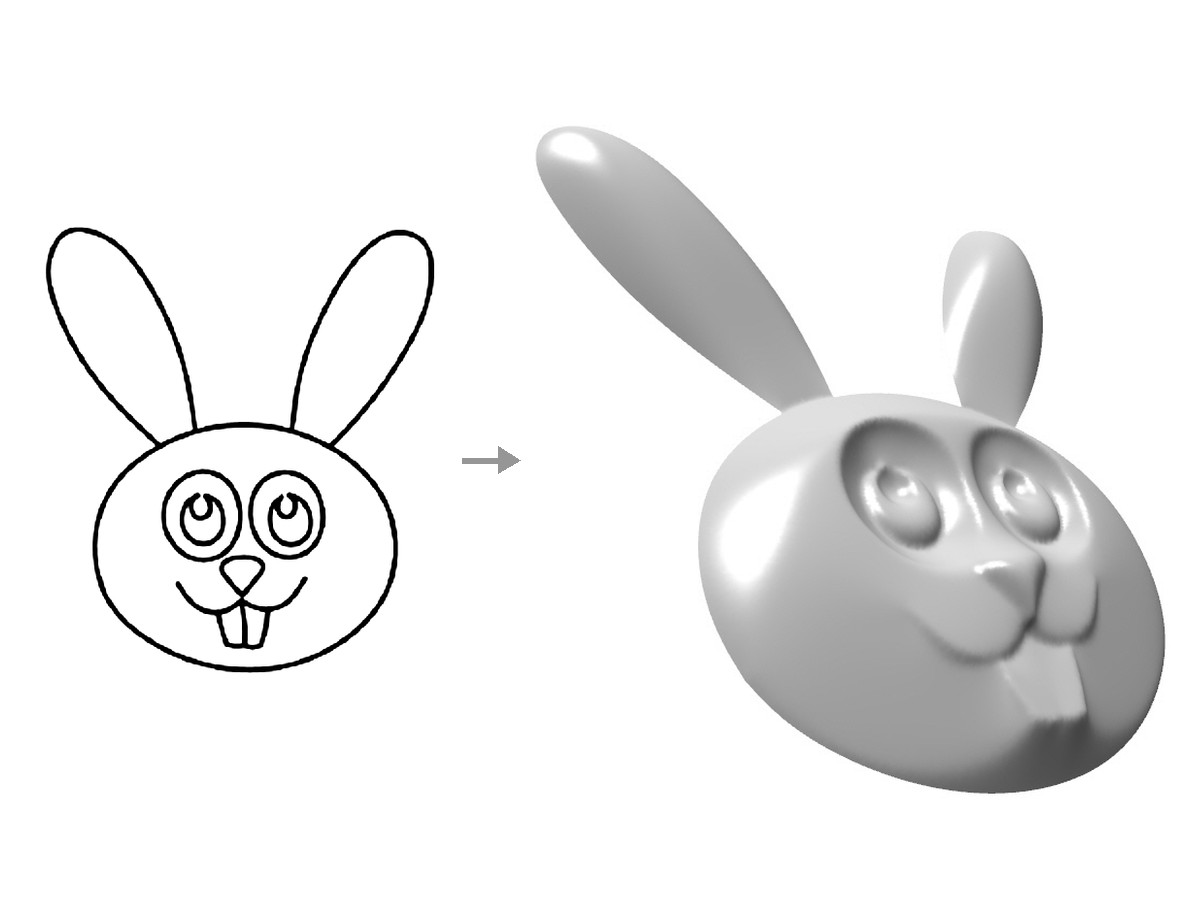
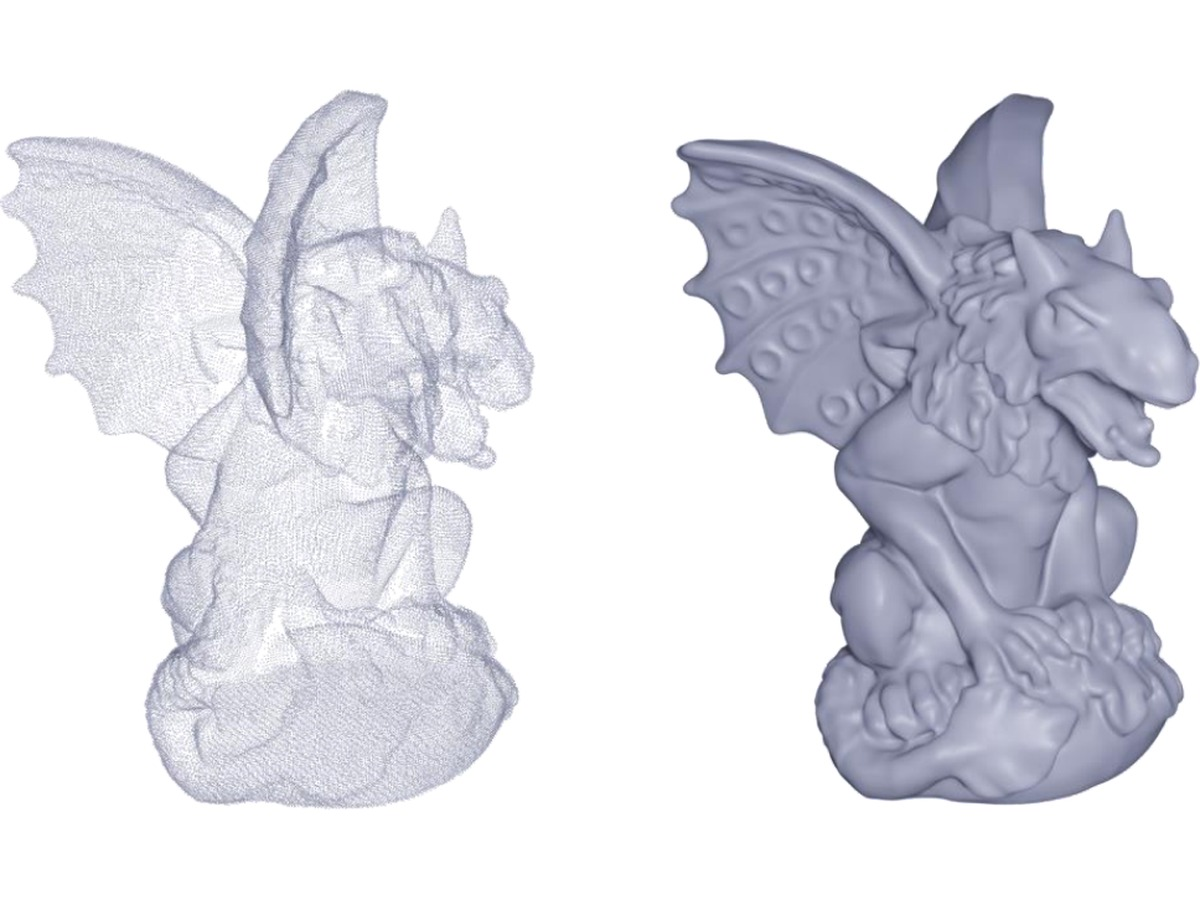
Research: Gargoyle point cloud and p-Poisson (PINC) surface as the surface-reconstruction figure
From Park, Lee, Hahn, Kang, NeurIPS 2023, Fig. 3.

Claude-Session: https://claude.ai/code/session_01MKDFXBc8dggSCkPzCDDRnJ

diff --git a/docs/index.html b/docs/index.html
@@ -38,7 +38,7 @@
 <details class="cat" id="tda"><summary><span class="hero"><img src="assets/hero/tda.jpg" width="720" height="540" alt="" loading="lazy" decoding="async"><span class=cap>GC×GC chromatogram of a wine and its Ball Mapper graphs at three scales.</span></span><h3>Geometry-informed topological data analysis</h3><span class="cd">Ball Mapper, persistent homology and signed distance functions applied to cell positions in tumor tissue and to mass-spectrometry data of wines.</span><span class="cm"><span class="n">2 papers</span><span class="open">Show papers</span></span></summary><ul class="plist"><li><img class="pth" src="assets/fig/Park2026_SpatialAnalysisMalignantImmuneCellInteractio.jpg" width="360" height="151" alt="Topological malignant region of a cell point cloud and signed distance to its boundary." loading="lazy" decoding="async"><div><p class="pt"><a href="https://doi.org/10.1038/s41540-026-00763-7" target="_blank" rel="noopener">Spatial analysis of malignant-immune cell interactions in the tumor microenvironment using topological data analysis</a></p><p class="pv">2026 · <i>npj Systems Biology and Applications</i></p><p class="po">Defines a topological malignant region by persistent homology, measures immune-cell infiltration by signed distance and local density, and relates these features to patient survival in CNS lymphoma.</p></div></li><li><img class="pth" src="assets/fig/Koljancic2025_UntargetedChemicalProfilingTwoDimensiona.jpg" width="360" height="362" alt="Ball Mapper graph of wine mass spectral vectors, nodes colored by Austrian sample share." loading="lazy" decoding="async"><div><p class="pt"><a href="https://doi.org/10.1021/acs.analchem.5c05342" target="_blank" rel="noopener">Untargeted Chemical Profiling of Two-Dimensional Gas Chromatography Coupled with High-Resolution Mass Spectrometry Data for Botrytized Wines via Topological Data Analysis</a></p><p class="pv">2025 · <i>Analytical Chemistry</i></p><p class="po">Uses Ball Mapper for untargeted analysis of GC×GC–HR-TOF-MS data from 34 botrytized wines, extracting sample-specific mass spectral features whose clusters align with region, producer and botrytization style.</p></div></li></ul></details>
 <details class="cat" id="neural"><summary><span class="hero"><img src="assets/hero/neural.jpg" width="720" height="540" alt="" loading="lazy" decoding="async"><span class=cap>Cut-open level sets of 3‑D signed distance functions computed by a neural network (ReSDF).</span></span><h3>Neural-network solvers for PDEs</h3><span class="cd">Implicit neural representations that solve the eikonal and p‑Poisson equations: redistancing of level-set functions, viscosity solutions in domains with obstacles, and surface reconstruction from point clouds.</span><span class="cm"><span class="n">3 papers</span><span class="open">Show papers</span></span></summary><ul class="plist"><li><img class="pth" src="assets/fig/Han2026_AStochasticVanishingViscosityApproachEik.jpg" width="261" height="261" alt="Predicted eikonal solution from a circular source detouring around a rectangular obstacle." loading="lazy" decoding="async"><div><p class="pt"><a href="https://doi.org/10.1016/j.jcp.2026.115154" target="_blank" rel="noopener">A stochastic vanishing viscosity approach for eikonal equations</a></p><p class="pv">2026 · <i>Journal of Computational Physics</i></p><p class="po">Solves the eikonal equation with a meshless neural network trained on a stochastic (Feynman-Kac) form of the vanishing viscosity limit, including domains with internal obstacles.</p></div></li><li><img class="pth" src="assets/fig/Park2024_ReSDF.jpg" width="360" height="152" alt="Star-shaped interface: level set function before and signed distance function after redistancing." loading="lazy" decoding="async"><div><p class="pt"><a href="https://doi.org/10.1016/j.jcp.2024.112803" target="_blank" rel="noopener">ReSDF: Redistancing implicit surfaces using neural networks</a></p><p class="pv">2024 · <i>Journal of Computational Physics</i></p><p class="po">Recovers the signed distance function from a given level-set function with a neural network that outputs the distance and its unit gradient, trained with geometry-based losses.</p></div></li><li><img class="pth" src="assets/fig/Park2023_PPoissonSurfaceReconstructionCurlFreeFlow.jpg" width="360" height="288" alt="Gargoyle surface reconstructed from a point cloud with the curl-free constraint." loading="lazy" decoding="async"><div><p class="pt"><a href="https://proceedings.neurips.cc/paper_files/paper/2023/hash/bd18189308a4c45c7d71ca83acf3deaa-Abstract-Conference.html" target="_blank" rel="noopener">p‑Poisson surface reconstruction in curl-free flow from point clouds</a></p><p class="pv">2023 · <i>Advances in Neural Information Processing Systems (NeurIPS 2023)</i></p><p class="po">Reconstructs a signed distance function and surface from a raw, unoriented point cloud with an implicit neural representation constrained by the p‑Poisson equation and a curl-free condition.</p></div></li></ul></details>
 <details class="cat" id="image"><summary><span class="hero"><img src="assets/hero/image.jpg" width="720" height="540" alt="" loading="lazy" decoding="async"><span class=cap>Euler&#x27;s elastica: inpainting of the red regions (top) and removal of salt-and-pepper noise (bottom).</span></span><h3>Variational and PDE-based image processing</h3><span class="cd">Variational models and PDEs for image denoising, inpainting, segmentation and blending: TV-Stokes models, augmented Lagrangian methods for total variation and Euler&#x27;s elastica, nonlinear structure tensors and level-set active contours.</span><span class="cm"><span class="n">13 papers</span><span class="open">Show papers</span></span></summary><ul class="plist"><li><img class="pth" src="assets/fig/Hintermuller2014_FunctionalAnalyticNumericalIssuesSplitti.jpg" width="360" height="177" alt="Noisy image and its total-variation denoising result." loading="lazy" decoding="async"><div><p class="pt"><a href="https://doi.org/10.1088/0266-5611/30/5/055014" target="_blank" rel="noopener">Functional-analytic and numerical issues in splitting methods for total variation-based image reconstruction</a></p><p class="pv">2014 · <i>Inverse Problems</i></p><p class="po">Analyzes variable-splitting and augmented Lagrangian methods for total-variation image denoising in function space, in primal and Fenchel pre-dual form, and proposes a staggered-grid discretization for the pre-dual.</p></div></li><li><img class="pth" src="assets/fig/Park2014_IMAGESEGMENTATIONSTATISTICALVARIATIONALF.jpg" width="360" height="294" alt="Camera photograph with the segmentation boundary drawn in red." loading="lazy" decoding="async"><div><p class="pt"><a href="https://doi.org/10.12941/jksiam.2014.18.129" target="_blank" rel="noopener">Image segmentation based on the statistical variational formulation using the local region information</a></p><p class="pv">2014 · <i>Journal of the Korean Society for Industrial and Applied Mathematics</i></p><p class="po">Segments images modeled as a mixture of two Gaussian intensity distributions by adding a local region energy that reclassifies pixels in ambiguous regions using locally estimated Gaussian parameters.</p></div></li><li><img class="pth" src="assets/fig/Duan2013_FastAugmentedLagrangianMethodEulersElastica.jpg" width="360" height="176" alt="Noisy liver CT slice and its Euler&#x27;s elastica denoised result." loading="lazy" decoding="async"><div><p class="pt"><a href="https://doi.org/10.4208/nmtma.2013.mssvm03" target="_blank" rel="noopener">A Fast Augmented Lagrangian Method for Euler&#x27;s Elastica Models</a></p><p class="pv">2013 · <i>Numerical Mathematics: Theory, Methods and Applications</i></p><p class="po">Minimizes Euler&#x27;s elastica energy with an FFT-free augmented Lagrangian method that adds a curvature variable h = div n, applied to image denoising (including CT), inpainting and zooming.</p></div></li><li><img class="pth" src="assets/fig/Hahn2012_AugmentedLagrangianMethodGeneralizedTVSt.jpg" width="360" height="194" alt="Normal vectors on sketch curves and the height surface reconstructed from them." loading="lazy" decoding="async"><div><p class="pt"><a href="https://doi.org/10.1007/s10915-011-9482-6" target="_blank" rel="noopener">Augmented Lagrangian Method for Generalized TV-Stokes Model</a></p><p class="pv">2012 · <i>Journal of Scientific Computing</i></p><p class="po">Generalizes the two-step TV-Stokes model (regularize the tangential field, then fit the data) with an augmented Lagrangian solver, applied to inpainting, denoising and surface reconstruction from sparse gradients.</p></div></li><li><img class="pth" src="assets/fig/Hahn2012_FastAlgorithmsPElasticaEnergyApplication.jpg" width="360" height="318" alt="Red masked regions (top) and p-elastica inpainting results (bottom) for two images." loading="lazy" decoding="async"><div><p class="pt"><a href="https://doi.org/10.1007/978-3-642-24785-9_15" target="_blank" rel="noopener">Fast Algorithms for p‑elastica Energy with the Application to Image Inpainting and Curve Reconstruction</a></p><p class="pv">2012 · <i>Scale Space and Variational Methods in Computer Vision (SSVM 2011), Lecture Notes in Computer Science</i></p><p class="po">Minimizes the curvature-based p‑elastica energy with two augmented Lagrangian algorithms that simplify the normal-field subproblem, applied to image inpainting and curve reconstruction from noisy unorganized point sets.</p></div></li><li><img class="pth" src="assets/fig/Duan2012_AFastAugmentedLagrangianMethodEulersElas.jpg" width="360" height="177" alt="Noisy synthetic image and its Euler&#x27;s elastica denoised result." loading="lazy" decoding="async"><div><p class="pt"><a href="https://doi.org/10.1007/978-3-642-24785-9_13" target="_blank" rel="noopener">A Fast Augmented Lagrangian Method for Euler&#x27;s Elastica Model</a></p><p class="pv">2012 · <i>Scale Space and Variational Methods in Computer Vision (SSVM 2011), Lecture Notes in Computer Science</i></p><p class="po">Minimizes Euler&#x27;s elastica energy for image denoising with an augmented Lagrangian method whose curvature variable h = div n makes each subproblem closed-form or linear, without FFT.</p></div></li><li><img class="pth" src="assets/fig/Hahn2011_OrientationMatchingMinimizationImageDeno.jpg" width="360" height="176" alt="Image with red inpainting region and the orientation-matching reconstruction." loading="lazy" decoding="async"><div><p class="pt"><a href="https://doi.org/10.1007/s11263-010-0371-5" target="_blank" rel="noopener">Orientation-Matching Minimization for Image Denoising and Inpainting</a></p><p class="pv">2011 · <i>International Journal of Computer Vision</i></p><p class="po">Denoises and inpaints images in two steps: the TV-Stokes equation regularizes the tangent vector field, then an orientation-matching minimization aligns the image gradient with the regularized normal field.</p></div></li><li><img class="pth" src="assets/fig/Tai2011_AFastAlgorithmEulerSElasticaModelAugment.jpg" width="360" height="175" alt="Image with salt-and-pepper noise and the result of elastica-based denoising." loading="lazy" decoding="async"><div><p class="pt"><a href="https://doi.org/10.1137/100803730" target="_blank" rel="noopener">A Fast Algorithm for Euler&#x27;s Elastica Model Using Augmented Lagrangian Method</a></p><p class="pv">2011 · <i>SIAM Journal on Imaging Sciences</i></p><p class="po">Minimizes Euler&#x27;s elastica energy with an augmented Lagrangian method whose subproblems are solved in closed form or by FFT, applied to image denoising, inpainting and zooming.</p></div></li><li><img class="pth" src="assets/fig/Hahn2010_GeometricAttractionDrivenFlowImageSegmen.jpg" width="360" height="182" alt="Four-color labels of image regions and final segmentation contours on a cube image." loading="lazy" decoding="async"><div><p class="pt"><a href="https://doi.org/10.1016/j.jvcir.2009.10.005" target="_blank" rel="noopener">Geometric attraction-driven flow for image segmentation and boundary detection</a></p><p class="pv">2010 · <i>Journal of Visual Communication and Image Representation</i></p><p class="po">Segments images with weak edges, holes and multiple junctions by level-set active contours that combine a geometric attraction-driven flow, a binary edge function and a binary balloon force.</p></div></li><li><img class="pth" src="assets/fig/Hahn2009_ANonlinearStructureTensorDiffusivityMatr.jpg" width="360" height="172" alt="Minimum-eigenvalue map and surface of the regularized tensor, with peaks at four corners." loading="lazy" decoding="async"><div><p class="pt"><a href="https://doi.org/10.1007/s10851-009-0138-1" target="_blank" rel="noopener">A Nonlinear Structure Tensor with the Diffusivity Matrix Composed of the Image Gradient</a></p><p class="pv">2009 · <i>Journal of Mathematical Imaging and Vision</i></p><p class="po">Regularizes the structure tensor of an image by a nonlinear PDE whose diffusivity matrix is built from the image gradient, applied to denoising, enhancement and corner detection.</p></div></li><li><img class="pth" src="assets/fig/Tai2009_ImageDenoisingTVStokesEquationOrientationMat.jpg" width="360" height="176" alt="Noisy zebra image and its denoised result from the orientation-matching method." loading="lazy" decoding="async"><div><p class="pt"><a href="https://doi.org/10.1007/978-3-642-02256-2_41" target="_blank" rel="noopener">Image Denoising Using TV-Stokes Equation with an Orientation-Matching Minimization</a></p><p class="pv">2009 · <i>Scale Space and Variational Methods in Computer Vision (SSVM 2009), Lecture Notes in Computer Science</i></p><p class="po">Denoises images in two steps: the TV-Stokes equation regularizes the tangent vector field, then an orientation-matching minimization reconstructs an image with sharp edges and smooth regions.</p></div></li><li><img class="pth" src="assets/fig/Lee2007_AVariationalApproachBlendingWarpingNonOv.jpg" width="360" height="122" alt="Blending sequence from a disk to a non-overlapping diamond: start, intermediate, end." loading="lazy" decoding="async"><div><p class="pt"><a href="https://doi.org/10.1016/j.cviu.2006.09.001" target="_blank" rel="noopener">A variational approach to blending based on warping for non-overlapped images</a></p><p class="pv">2007 · <i>Computer Vision and Image Understanding</i></p><p class="po">Blends source and target images, including non-overlapping ones, by a variational model whose two deformation fields warp both shapes toward a common intermediate shape.</p></div></li><li><img class="pth" src="assets/fig/SukhoLee2006_ConductivityImageReconstructionDefective.jpg" width="360" height="182" alt="Phantom conductivity images reconstructed without and with recovered Bz data." loading="lazy" decoding="async"><div><p class="pt"><a href="https://doi.org/10.1109/TMI.2005.862150" target="_blank" rel="noopener">Conductivity Image Reconstruction From Defective Data in MREIT: Numerical Simulation and Animal Experiment</a></p><p class="pv">2006 · <i>IEEE Transactions on Medical Imaging</i></p><p class="po">Recovers the magnetic flux density Bz in low-MR-signal regions for MREIT conductivity imaging by level-set segmentation and a Dirichlet Laplace problem, tested numerically and on a piglet.</p></div></li></ul></details>
-<details class="cat" id="surface"><summary><span class="hero"><img src="assets/hero/surface.jpg" width="720" height="540" alt="" loading="lazy" decoding="async"><span class=cap>A line drawing and the 3‑D surface reconstructed from it.</span></span><h3>Surface reconstruction</h3><span class="cd">Reconstruction of surfaces and curves from sketch strokes, sparse gradients and noisy point clouds, and spherical inflation of the cerebral cortex.</span><span class="cm"><span class="n">4 papers</span><span class="open">Show papers</span></span></summary><ul class="plist"><li><img class="pth" src="assets/fig/Park2023_PPoissonSurfaceReconstructionCurlFreeFlow.jpg" width="360" height="288" alt="Gargoyle surface reconstructed from a point cloud with the curl-free constraint." loading="lazy" decoding="async"><div><p class="pt"><a href="https://proceedings.neurips.cc/paper_files/paper/2023/hash/bd18189308a4c45c7d71ca83acf3deaa-Abstract-Conference.html" target="_blank" rel="noopener">p‑Poisson surface reconstruction in curl-free flow from point clouds</a></p><p class="pv">2023 · <i>Advances in Neural Information Processing Systems (NeurIPS 2023)</i></p><p class="po">Reconstructs a signed distance function and surface from a raw, unoriented point cloud with an implicit neural representation constrained by the p‑Poisson equation and a curl-free condition.</p></div></li><li><img class="pth" src="assets/fig/Hahn2013_StrokeBasedSurfaceReconstruction.jpg" width="360" height="238" alt="Line sketch of a draped figure and the 3D surface reconstructed from it." loading="lazy" decoding="async"><div><p class="pt"><a href="https://doi.org/10.4208/nmtma.2013.mssvm16" target="_blank" rel="noopener">Stroke-Based Surface Reconstruction</a></p><p class="pv">2013 · <i>Numerical Mathematics: Theory, Methods and Applications</i></p><p class="po">Reconstructs a 3‑D height map from sparse artist strokes by interpolating a curl-free normal field with TV/H¹ regularization and integrating it; stroke types create ridges, valleys and jumps.</p></div></li><li><img class="pth" src="assets/fig/Hahn2012_AugmentedLagrangianMethodGeneralizedTVSt.jpg" width="360" height="194" alt="Normal vectors on sketch curves and the height surface reconstructed from them." loading="lazy" decoding="async"><div><p class="pt"><a href="https://doi.org/10.1007/s10915-011-9482-6" target="_blank" rel="noopener">Augmented Lagrangian Method for Generalized TV-Stokes Model</a></p><p class="pv">2012 · <i>Journal of Scientific Computing</i></p><p class="po">Generalizes the two-step TV-Stokes model (regularize the tangential field, then fit the data) with an augmented Lagrangian solver, applied to inpainting, denoising and surface reconstruction from sparse gradients.</p></div></li><li><img class="pth" src="assets/fig/Kwon2008_AFastSphericalInflationMethodCerebralCor.jpg" width="360" height="125" alt="Cortical surface of one hemisphere and its spherical inflation." loading="lazy" decoding="async"><div><p class="pt"><a href="https://doi.org/10.1002/ima.20140" target="_blank" rel="noopener">A fast spherical inflation method of the cerebral cortex by deformation of a simplex mesh on the polar coordinates</a></p><p class="pv">2008 · <i>International Journal of Imaging Systems and Technology</i></p><p class="po">Maps a genus-zero cortical surface, represented as a simplex mesh, onto a sphere without folded polygons, deforming vertices in 2‑D polar coordinates and then minimizing linear distortion.</p></div></li></ul></details></div>
+<details class="cat" id="surface"><summary><span class="hero"><img src="assets/hero/surface.jpg" width="720" height="540" alt="" loading="lazy" decoding="async"><span class=cap>Gargoyle point cloud (left) and the surface reconstructed from it with the p‑Poisson equation and a curl-free constraint (right).</span></span><h3>Surface reconstruction</h3><span class="cd">Reconstruction of surfaces and curves from sketch strokes, sparse gradients and noisy point clouds, and spherical inflation of the cerebral cortex.</span><span class="cm"><span class="n">4 papers</span><span class="open">Show papers</span></span></summary><ul class="plist"><li><img class="pth" src="assets/fig/Park2023_PPoissonSurfaceReconstructionCurlFreeFlow.jpg" width="360" height="288" alt="Gargoyle surface reconstructed from a point cloud with the curl-free constraint." loading="lazy" decoding="async"><div><p class="pt"><a href="https://proceedings.neurips.cc/paper_files/paper/2023/hash/bd18189308a4c45c7d71ca83acf3deaa-Abstract-Conference.html" target="_blank" rel="noopener">p‑Poisson surface reconstruction in curl-free flow from point clouds</a></p><p class="pv">2023 · <i>Advances in Neural Information Processing Systems (NeurIPS 2023)</i></p><p class="po">Reconstructs a signed distance function and surface from a raw, unoriented point cloud with an implicit neural representation constrained by the p‑Poisson equation and a curl-free condition.</p></div></li><li><img class="pth" src="assets/fig/Hahn2013_StrokeBasedSurfaceReconstruction.jpg" width="360" height="238" alt="Line sketch of a draped figure and the 3D surface reconstructed from it." loading="lazy" decoding="async"><div><p class="pt"><a href="https://doi.org/10.4208/nmtma.2013.mssvm16" target="_blank" rel="noopener">Stroke-Based Surface Reconstruction</a></p><p class="pv">2013 · <i>Numerical Mathematics: Theory, Methods and Applications</i></p><p class="po">Reconstructs a 3‑D height map from sparse artist strokes by interpolating a curl-free normal field with TV/H¹ regularization and integrating it; stroke types create ridges, valleys and jumps.</p></div></li><li><img class="pth" src="assets/fig/Hahn2012_AugmentedLagrangianMethodGeneralizedTVSt.jpg" width="360" height="194" alt="Normal vectors on sketch curves and the height surface reconstructed from them." loading="lazy" decoding="async"><div><p class="pt"><a href="https://doi.org/10.1007/s10915-011-9482-6" target="_blank" rel="noopener">Augmented Lagrangian Method for Generalized TV-Stokes Model</a></p><p class="pv">2012 · <i>Journal of Scientific Computing</i></p><p class="po">Generalizes the two-step TV-Stokes model (regularize the tangential field, then fit the data) with an augmented Lagrangian solver, applied to inpainting, denoising and surface reconstruction from sparse gradients.</p></div></li><li><img class="pth" src="assets/fig/Kwon2008_AFastSphericalInflationMethodCerebralCor.jpg" width="360" height="125" alt="Cortical surface of one hemisphere and its spherical inflation." loading="lazy" decoding="async"><div><p class="pt"><a href="https://doi.org/10.1002/ima.20140" target="_blank" rel="noopener">A fast spherical inflation method of the cerebral cortex by deformation of a simplex mesh on the polar coordinates</a></p><p class="pv">2008 · <i>International Journal of Imaging Systems and Technology</i></p><p class="po">Maps a genus-zero cortical surface, represented as a simplex mesh, onto a sphere without folded polygons, deforming vertices in 2‑D polar coordinates and then minimizing linear distortion.</p></div></li></ul></details></div>
     <footer class="site">
       <div class="mlinks"><a href="#" class="mail" data-u="am9veW91bmcuaGFobg==" data-d="ZmpmaS5jdnV0LmN6">Email</a><a href="https://scholar.google.com/citations?user=4w2vNhcAAAAJ&amp;hl=en" target="_blank" rel="noopener">Google Scholar</a><a href="https://orcid.org/0000-0003-4357-1009" target="_blank" rel="noopener">ORCID</a><a href="https://www.scopus.com/authid/detail.uri?authorId=58090037100" target="_blank" rel="noopener">Scopus</a><a href="https://www.webofscience.com/wos/author/record/AGX-8714-2022" target="_blank" rel="noopener">Web of Science</a><a href="https://www.researchgate.net/profile/Jooyoung-Hahn" target="_blank" rel="noopener">ResearchGate</a><a href="https://www.linkedin.com/in/jooyoung-hahn-252b5233/" target="_blank" rel="noopener">LinkedIn</a></div>
       <p>Department of Software Engineering, Faculty of Nuclear Sciences and Physical Engineering, Czech Technical University in Prague</p>
